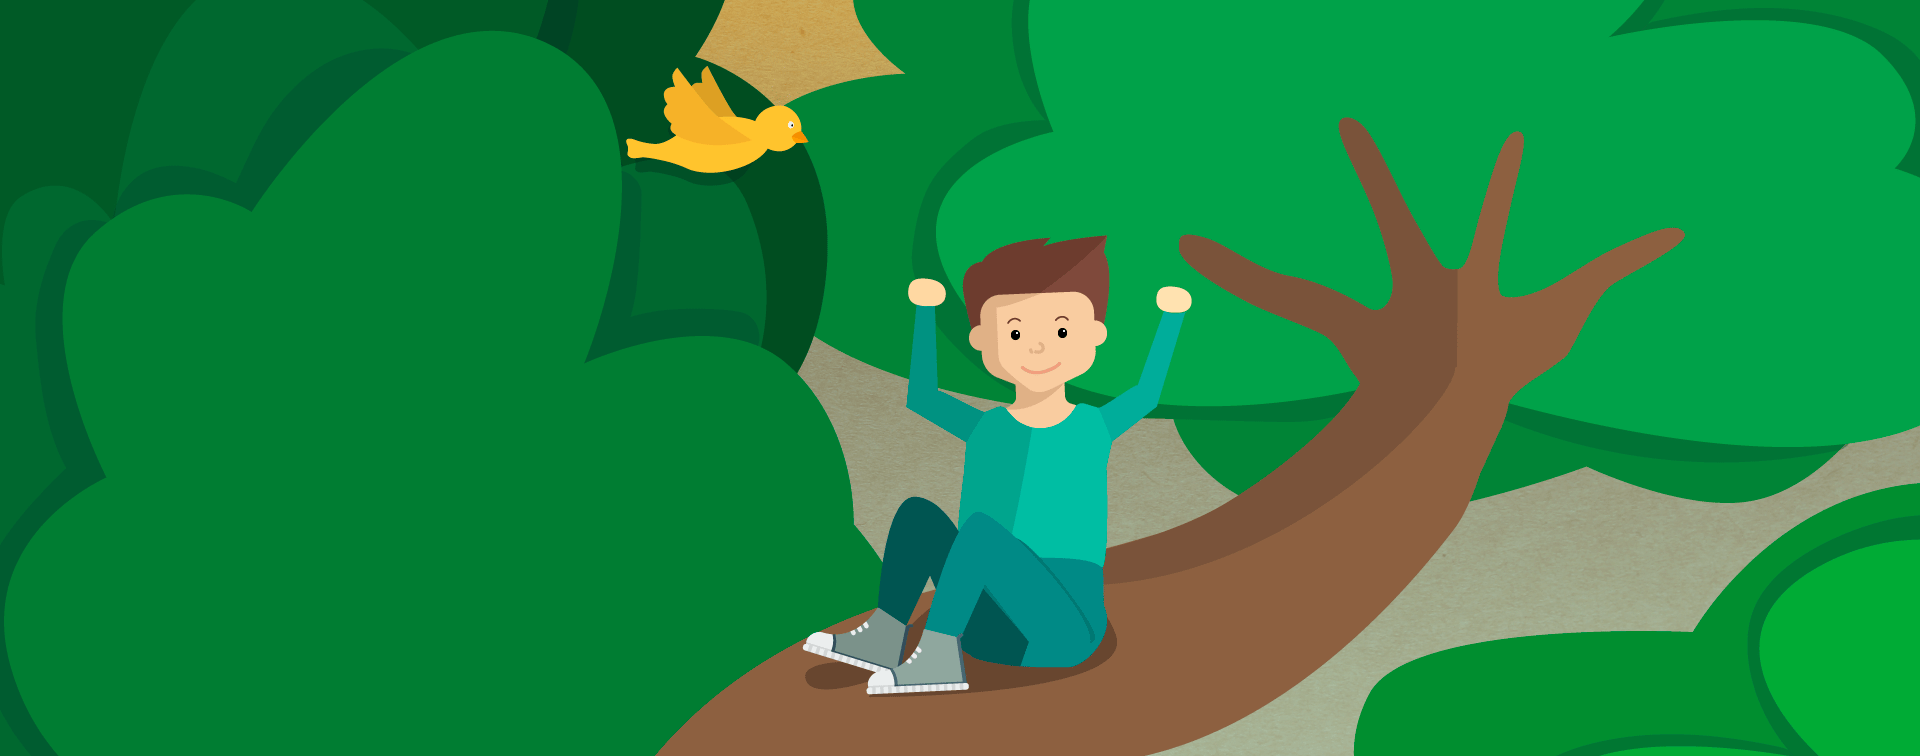
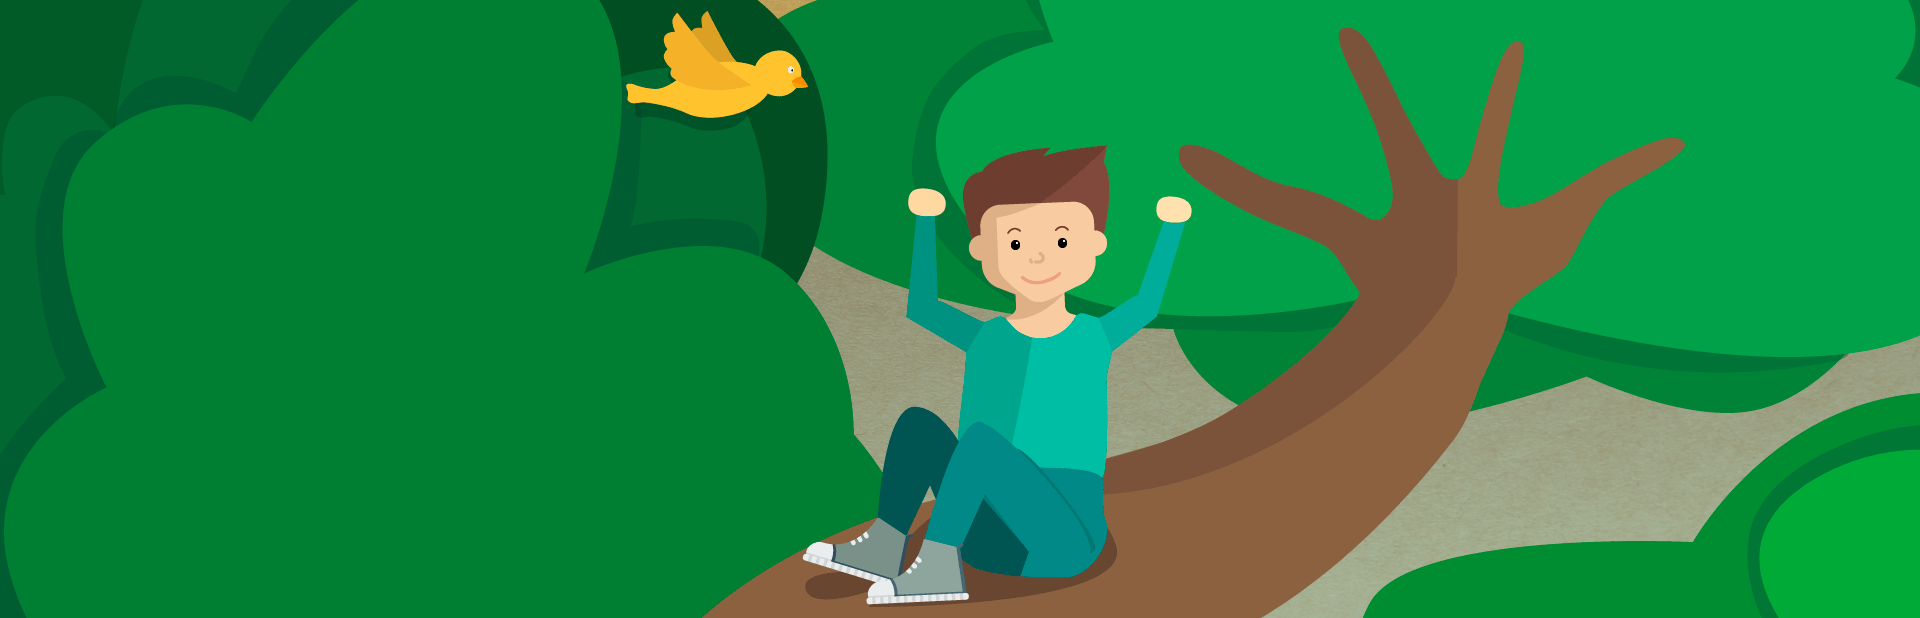
change heigh of the medu, change size of title image

diff --git a/css/style.css b/css/style.css
@@ -19,6 +19,7 @@ h3 {
 h1 {
     font-size: 60px;
     text-align: center;
+    margin-top: 0;
 }
 
 h2 {
@@ -42,21 +43,20 @@ header {
     background-color: #5a913d;
     font-family: Amatic SC, sans-serif;
     z-index: 100;
-    height: 7em;
+    height: 5em;
 }
 
 .logo-header {
     height: 3.5em;
     width: auto;
     position: absolute;
-    top: 1.6em;
+    top: 0.7em;
     left: 4em;
 }
 
 .menu {
     display: flex;
     justify-content: flex-end;
-    padding-top: 1.1em;
     padding-right: 4em;
 }
 
@@ -80,14 +80,33 @@ header {
     height: auto;
 }
 
+.titleImage-tablet {
+    display: none;
+}
+
+.titleImage-mobile {
+    display: none;
+}
+
+.main-tree {
+    height: 40em;
+    width: auto;
+    margin-top: 4em;
+}
+
 .step {
     height: 20em;
-    width: 20em;
+    width: auto;
 }
 
 .step-gift {
     height: 10em;
-    width: 10em;
+    width: auto;
+}
+
+.step-location {
+    height: 15em;
+    width: auto;
 }
 
 .step-certificate {
@@ -102,7 +121,7 @@ header {
     grid-template-rows: auto auto auto auto auto auto;
     grid-column-gap: 3em;
     grid-row-gap: 4em;
-    margin: 4em auto 7em auto;
+    margin-bottom: 7em;
     align-items: center;
 }
 

diff --git a/index.html b/index.html
@@ -31,15 +31,15 @@
 
     </header>
 
-    <img class="titleImage" src="images/homepage/titleImage.png" alt="">
-
-
+    <img class="titleImage" src="images/homepage/banner-desktop.png" alt="">
+    <img class="titleImage-tablet" src="images/homepage/banner-tablet.png" alt="">
+    <img class="titleImage-mobile" src="images/homepage/banner-mobile.png" alt="">
 
 
     <section class="process-grid">
 
         <div class="process">
-            <img class="step" src="images/homepage/tree-bird.svg" alt="">
+            <img class="main-tree" src="images/homepage/tree-bird.svg" alt="">
         </div>
 
 
@@ -104,7 +104,7 @@
         </div>
 
         <div class="process-right">
-            <img class="step" src="images/homepage/location.svg" alt="">
+            <img class="step-location" src="images/homepage/location.svg" alt="">
 
         </div>
 
